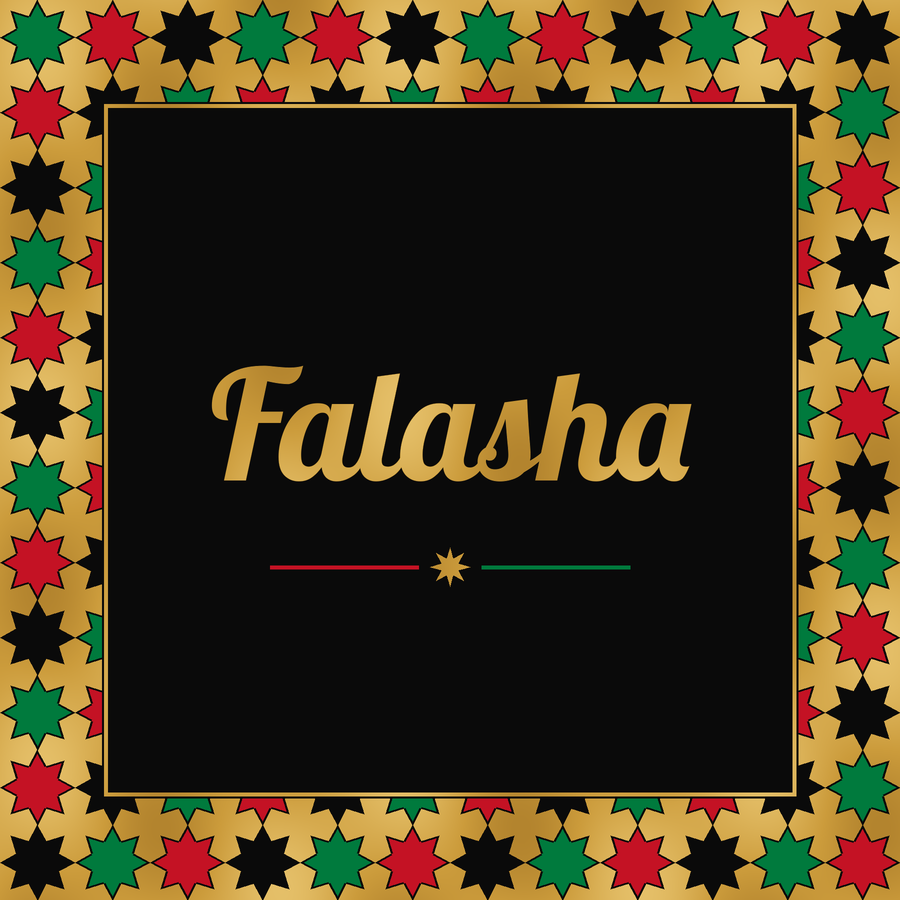
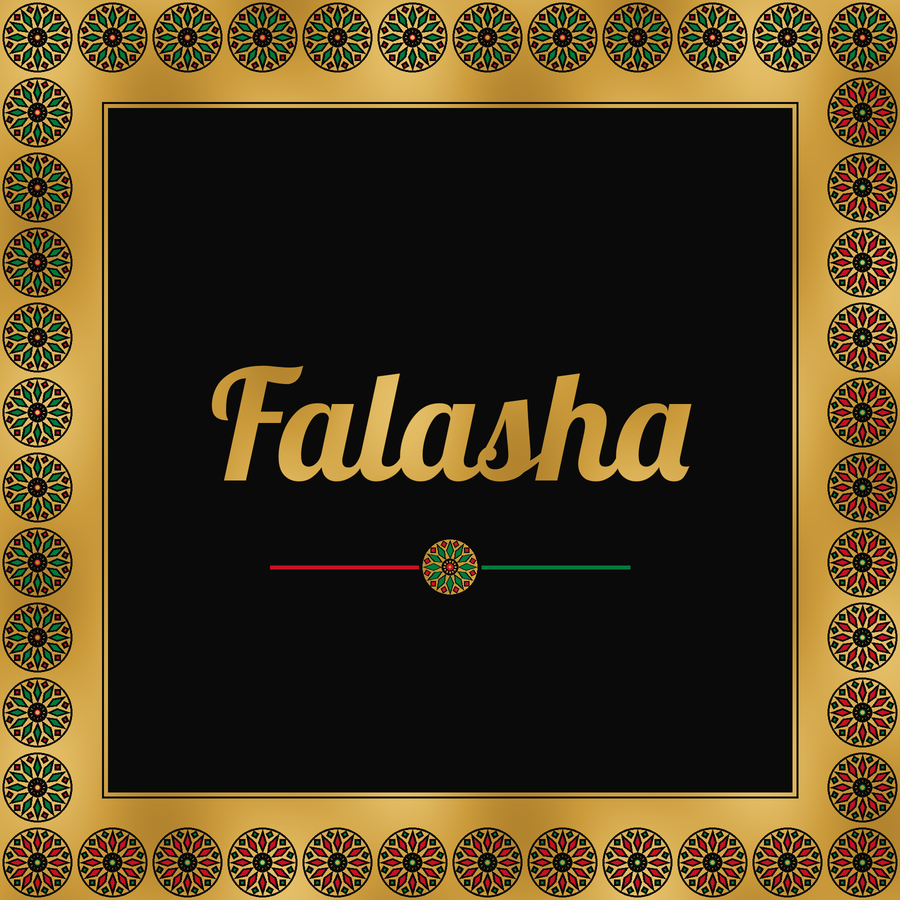
Zellige labels and accent: replace stars with small rosettes
Claude-Session: https://claude.ai/code/session_01Mt1Tg14bgvqpkRSeX5tTDt

Changed region(s): [[0.0, 0.0, 1.0, 1.0], [0.4667, 0.5911, 0.5289, 0.6844]]

diff --git a/heritage-crossbody-bag/make_zellige_pieces.py b/heritage-crossbody-bag/make_zellige_pieces.py
@@ -18,7 +18,7 @@ from pathlib import Path
 from PIL import Image, ImageDraw, ImageFont
 
 from make_flow_pieces import overview
-from make_zellige_design import (BLACK, GOLD, GREEN, RED, gild, polar, rosette, star_and_cross)
+from make_zellige_design import BLACK, GOLD, GREEN, RED, gild, rosette, star_and_cross
 
 DPI = 300
 SS = 2
@@ -40,32 +40,34 @@ def mosaic_band(d, W, y0, y1, colors, g):
     d.rectangle((0, y1, W, y1 + g * 4), fill=GOLD, outline=BLACK, width=g)
 
 
+def mini(d, cx, cy, r, k, g):
+    """Small 12-petal rosette; k alternates green and red petals."""
+    petal, accent = (GREEN, RED) if k % 2 == 0 else (RED, GREEN)
+    rosette(d, cx, cy, r, 12, petal, accent, g)
+
+
 def details(w=3000, h=1200):
     """Row of rosettes (6 across, so it repeats end to end) between mosaic bands."""
     W, H = w * SS, h * SS
     im = Image.new("RGB", (W, H), BLACK)
     d = ImageDraw.Draw(im)
     g = max(2, SS * 2)
-    # top and bottom mosaic bands (band height divides the width: 3000 / 125 = 24)
-    for y0 in (0.06, 0.835):
-        top = H * y0
-        band = Image.new("RGB", (W, int(125 * SS)), GOLD)
-        bd = ImageDraw.Draw(band)
-        star_and_cross(bd, W, band.size[1], 125 * SS, 62.5 * SS, 62.5 * SS, [GREEN, RED, BLACK], g)
-        im.paste(band, (0, int(top)))
-        d.rectangle((0, top - 6 * SS, W, top), fill=GOLD)
-        d.rectangle((0, top + band.size[1], W, top + band.size[1] + 6 * SS), fill=GOLD)
+    # top and bottom rows of small rosettes on gold bands (24 across, repeats end to end)
+    for yc in (0.112, 0.888):
+        cy = H * yc
+        d.rectangle((-g * 4, cy - H * 0.07, W + g * 4, cy + H * 0.07), fill=GOLD, outline=BLACK, width=g)
+        step_s = W / 24
+        for i in range(-1, 25):
+            mini(d, (i + 0.5) * step_s, cy, H * 0.05, i, g)
     # center row of rosettes on gold discs, alternating red and green
     n = 6
     step = W / n
     for i in range(-1, n + 1):
         petal, accent = (GREEN, RED) if i % 2 == 0 else (RED, GREEN)
         rosette(d, (i + 0.5) * step, H / 2, H * 0.205, 24, petal, accent, g)
-    # small gold 8-point stars between rosettes
+    # small rosettes between the big ones
     for i in range(n + 1):
-        cx = i * step
-        pts = [polar(cx, H / 2, H * 0.06 if k % 2 == 0 else H * 0.03, math.tau * k / 16) for k in range(16)]
-        d.polygon(pts, fill=GOLD, outline=BLACK, width=g)
+        mini(d, i * step, H / 2, H * 0.055, i + 1, g)
     return gild(im, period=step).resize((w, h), Image.LANCZOS)
 
 
@@ -73,9 +75,7 @@ def divider(d, S, y, color_line=True):
     w = SS * 4
     d.line((S * 0.30, y, S * 0.465, y), fill=RED, width=w)
     d.line((S * 0.535, y, S * 0.70, y), fill=GREEN, width=w)
-    r = S * 0.025
-    pts = [polar(S / 2, y, r if k % 2 == 0 else r * 0.45, math.tau * k / 16) for k in range(16)]
-    d.polygon(pts, fill=GOLD, outline=BLACK, width=SS)
+    mini(d, S / 2, y, S * 0.03, 0, max(1, SS))
 
 
 def outside_label(fonts, px=900):
@@ -83,8 +83,18 @@ def outside_label(fonts, px=900):
     im = Image.new("RGB", (S, S), GOLD)
     d = ImageDraw.Draw(im)
     g = max(2, SS * 2)
-    # mosaic border all around, black center panel
-    star_and_cross(d, S, S, S / 12, S / 24, S / 24, [GREEN, RED, BLACK], g)
+    # border of small rosettes all around, black center panel
+    n = 12
+    step = S / n
+    k = 0
+    for i in range(n):
+        c = (i + 0.5) * step
+        for cx, cy in ((c, step / 2), (c, S - step / 2)):
+            mini(d, cx, cy, step * 0.44, k, g); k += 1
+    for i in range(1, n - 1):
+        c = (i + 0.5) * step
+        for cx, cy in ((step / 2, c), (S - step / 2, c)):
+            mini(d, cx, cy, step * 0.44, k, g); k += 1
     m = S * 0.12
     d.rectangle((m - 6 * SS, m - 6 * SS, S - m + 6 * SS, S - m + 6 * SS), fill=GOLD, outline=BLACK, width=g)
     d.rectangle((m, m, S - m, S - m), fill=BLACK)
@@ -102,7 +112,9 @@ def inside_label(fonts, px=900):
     g = max(2, SS * 2)
     bh = S * 0.16
     band = Image.new("RGB", (S, int(bh)), GOLD)
-    star_and_cross(ImageDraw.Draw(band), S, int(bh), bh / 2, bh / 4, bh / 4, [GREEN, RED, BLACK], g)
+    bd = ImageDraw.Draw(band)
+    for i in range(9):
+        mini(bd, (i + 0.5) * S / 9, bh / 2, bh * 0.4, i, g)
     im.paste(gild(band), (0, 0))
     d.rectangle((0, bh, S, bh + S * 0.01), fill=BLACK)
     m = S * 0.05
